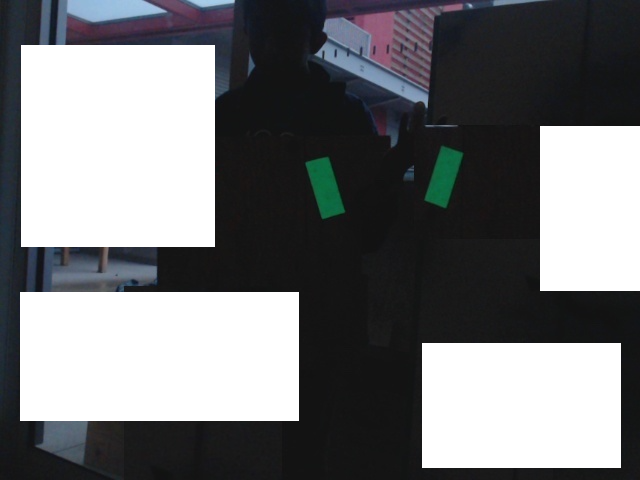
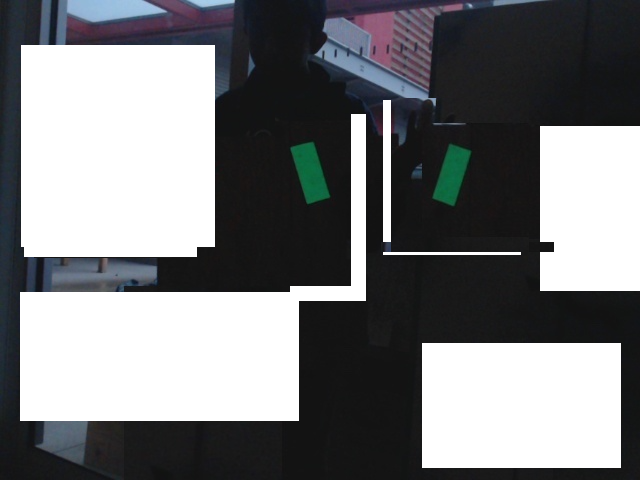
Added 2-camera distance finding foundational code

Changed region(s): [[0.4375, 0.1875, 0.8125, 0.625], [0.0312, 0.5, 0.3125, 0.5625], [0.8438, 0.5, 0.875, 0.5312]]

diff --git a/vision_cv/PairFinding.py b/vision_cv/PairFinding.py
@@ -5,6 +5,7 @@ import numpy as np
 
 HEIGHT_THRESHOLD = 20 # delta pixels # TODO: Tune Threshold
 ANGLE_THRESHOLD = 0.1 # delta radians
+DISTANCE_THRESHOLD = float("inf")
 
 def right_or_left(angle):
     top = box[0]
@@ -72,7 +73,7 @@ def pair_finding(box_list, box, target_height, angle):
             box_list.pop(elem)
             break
             
-    current_min_top_dist = float("inf")
+    current_min_top_dist = DISTANCE_THRESHOLD
     for check_box in box_list:
         check_height = check_box[0][1] - check_box[2][1]
         check_angle = math.atan2(box[1][0]-box[2][0], box[1][1]-box[2][1]) # direct arctan?
@@ -87,7 +88,8 @@ def pair_finding(box_list, box, target_height, angle):
             # and vice versa.
             
             if(abs(check_box[0][0]-box[0][0]) < current_min_top_dist):
-                if(abs(check_angle-1.856) < abs(check_angle+0.279)):
+                if(abs(check_angle-1.856) > abs(check_angle+0.279)):
+                    print("POSSIBLE -- LEFT BOX")
                     # This is the left side match -- it must be more left
                     if(check_box[0][0]-box[0][0] < 0):
                         current_min_top_dist = abs(check_box[0][0]-box[0][0])
@@ -95,6 +97,7 @@ def pair_finding(box_list, box, target_height, angle):
                     else:
                         pass
                 else:
+                    print("POSSIBLE -- RIGHT BOX")
                     # This is the right side match -- it must be more right
                     if(check_box[0][0]-box[0][0] > 0):
                         current_min_top_dist = abs(check_box[0][0]-box[0][0])

diff --git a/vision_cv/ImageAnalysis.py b/vision_cv/ImageAnalysis.py
@@ -44,11 +44,21 @@ def imageAnalysis(img):
     largest_box, largest_height, largest_angle = PairFinding.check_largest_tape(boxes)
     pair_box = PairFinding.pair_finding(boxes, largest_box, largest_height, largest_angle)
     largest_box = np.array([x.tolist() for x in largest_box], dtype=np.int32)
-    pair_box = np.array(pair_box, dtype=np.int32).reshape((4,2))
+    if(type(pair_box) != type(None)):
+        pair_box = np.array(pair_box, dtype=np.int32).reshape((4,2))
     print(largest_box, type(largest_box))
     print(pair_box, type(pair_box))
     cv2.drawContours(mask,[largest_box],0,(0,0,255),2) #IMPORTANT: Drawing contours around largest_height tape
-    cv2.drawContours(mask,[pair_box],0,(0,255,0),2) #IMPORTANT: Drawing contours and finding matching pairs
+    total_contour = largest_box
+    if(type(pair_box) != type(None)):
+        cv2.drawContours(mask,[pair_box],0,(0,255,0),2) #IMPORTANT: Drawing contours and finding matching pairs
+        total_contour = np.concatenate([total_contour, pair_box])
+
+    x,y,w,h = cv2.boundingRect(total_contour)
+    center_point = (x+(w/2), y+(h/2))
+    cv2.circle(mask, center_point, 3, (255,255,255), thickness=-1)
+    cv2.rectangle(mask, (x,y), (x+w,y+h), (255,255,255))
+    
 
     if not config.LiveImage:
         cv2.imshow("Threshold", thresh)

diff --git a/vision_cv/DistanceFinding.py b/vision_cv/DistanceFinding.py
@@ -1,0 +1,16 @@
+import numpy as np
+import math
+
+DISTANCE_BETWEEN_CAMERAS = 0 # meters
+VIEWING_ANGLE = 70.42 # degrees (radians?)
+HORIZONTAL_PIXELS = 640 # pixels
+
+# From this paper (http://dsc.ijs.si/files/papers/s101%20mrovlje.pdf), we can use the following formula:
+# D = (BX_0)/(2tan(phi0/2)(X_L-X_D))
+# Dual image is the image of the center points of the tapes from both cameras with SIZE 1 PIXEL.
+def distance_finding(dual_image): 
+    locations = np.where(dual_image==255)
+    locations = zip(locations[0], locations[1])
+    distance = (DISTANCE_BETWEEN_CAMERAS*HORIZONTAL_PIXELS)/(2*math.tan(VIEWING_ANGLE/2)*(locations[1][0]-locations[0][0]))
+    return distance
+

diff --git a/vision_cv/main.py b/vision_cv/main.py
@@ -48,6 +48,7 @@ if(__name__ == "__main__"):
         
     else:
         #img = cv2.imread("../../../vision_cv/TestImages/TEST0.jpg")
-        img = cv2.imread("/Users/yasnara/Documents/Coding/FRC/2019-Vision/vision_cv/TestImages/TEST1000.png")
+        #img = cv2.imread("/Users/yasnara/Documents/Coding/FRC/2019-Vision/vision_cv/TestImages/TEST1000.png")
+        img = cv2.imread("./TestImages/TEST900.png")
         ImageAnalysis.imageAnalysis(img)
         
